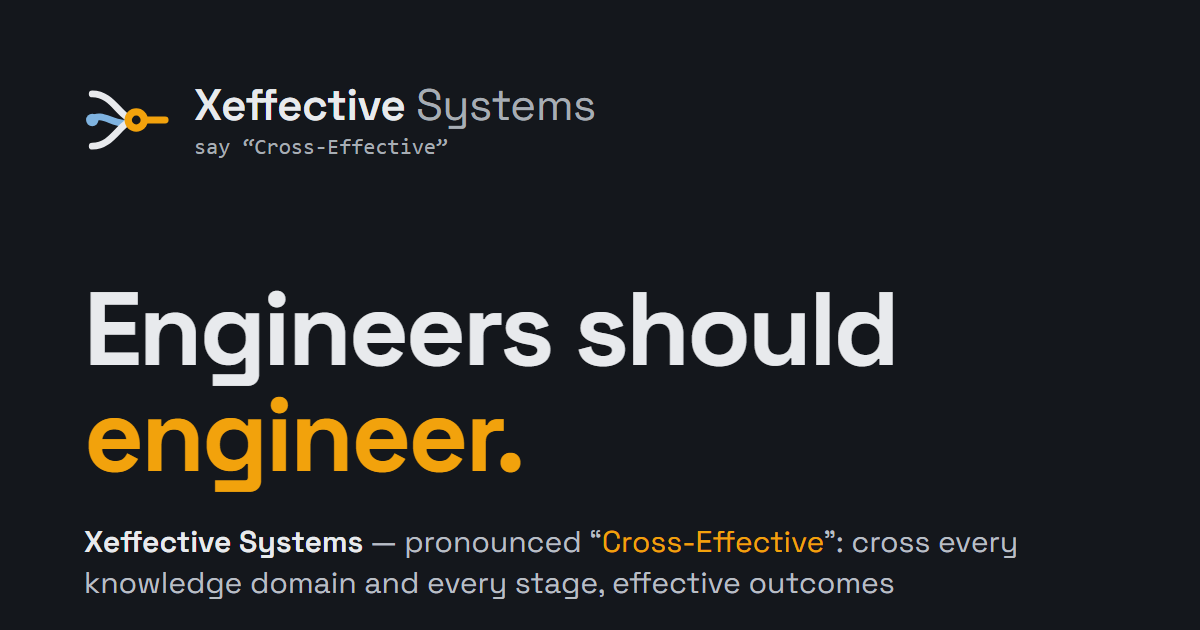
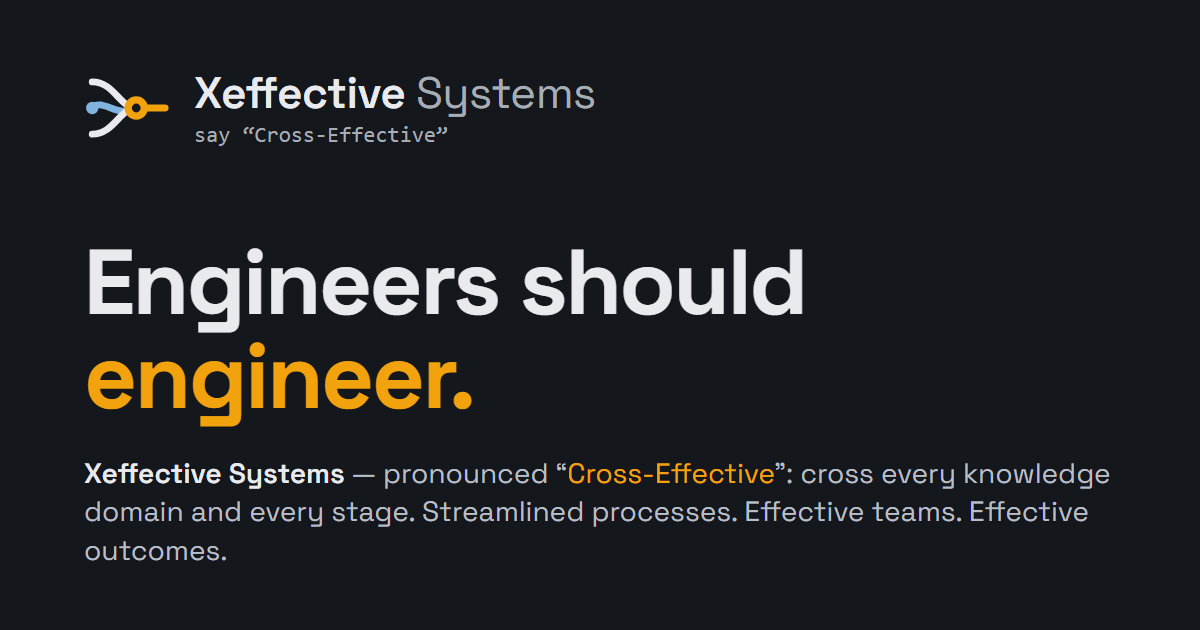
Text update: brand line, mission, founder bio, contact section; og-image

Changed region(s): [[0.0617, 0.3921, 0.925, 0.9651], [0.0617, 0.1206, 0.4933, 0.2413]]

diff --git a/index.html b/index.html
@@ -69,15 +69,15 @@
         <path class="line" d="M0 230 1200 450"/>
       </svg>
       <div class="wrap">
-        <p class="name-intro"><span class="ni-name">Xeffective Systems</span> &mdash; pronounced &ldquo;<span class="accent">Cross-Effective</span>&rdquo;: cross every knowledge domain and every stage, effective outcomes</p>
+        <p class="brand-line"><span class="brand-line-name">Xeffective Systems</span> &mdash; pronounced &ldquo;<span class="accent">Cross-Effective</span>&rdquo;: cross every knowledge domain and every stage. Streamlined processes. Effective teams. Effective outcomes.</p>
         <p class="eyebrow">Methodology for chip and SoC teams</p>
         <h1 id="hero-title">Engineers should <span class="accent">engineer.</span></h1>
         <p class="lede">Spec drift and process noise cost chip programs time, budget and re-spins. Xeffective Systems is building the methodology layer that takes process and documentation off engineers, from the first market document to delivery.</p>
         <p class="hero-actions">
-          <a class="btn btn-primary" href="#contact">Become a design partner</a>
+          <a class="btn btn-primary" href="#contact">Share your pain points</a>
           <a class="btn btn-ghost" href="#problem">The problem we solve</a>
         </p>
-        <p class="mission">Our goal: zero bug escapes to silicon caused by ambiguous specs, manual hand-offs or process gaps.</p>
+        <p class="mission">Our goal: streamline the design life cycle, from front end to back end, so engineering teams invest their brain bandwidth in the work that adds value (design, verification testbenches, test code), shortening time to market and reducing bug escapes.</p>
       </div>
     </section>
 
@@ -137,19 +137,20 @@
           <p class="role">Founder, Xeffective Systems</p>
         </div>
         <div class="bio">
-          <p>Wlamir Mello is a computer engineer and chip designer with more than 25 years across semiconductors, medical devices, industrial automation and nuclear research. Hands-on work spans high-speed analog and mixed-signal design, embedded software, FPGA prototyping and SoC verification and validation, alongside leadership roles as R&amp;D manager, engineering director and senior technical architect. The common thread is methodology: analyzing how engineering work flows, then building processes that let teams focus on engineering.</p>
+          <p>Wlamir Mello is a seasoned electronic and computer engineer with more than 25 years designing chips and systems, with hands-on and leadership experience across the full product life cycle, in semiconductors, medical devices, industrial automation and nuclear research.</p>
+          <p>His work spans the stack: high-speed analog and mixed-signal hardware, embedded and real-time software, FPGA prototyping and emulation, and ASIC/SoC verification, validation and silicon bring-up. He has led engineering as R&amp;D manager, engineering director and senior technical architect, worked directly with customers in technical account management and marketing, and taught electrical circuits, power electronics and programming.</p>
+          <p>Across every role, one pattern stood out: teams lose a large share of their time to documentation and process instead of engineering. He has spent his career analyzing how engineering work really flows and building methodologies, including concurrent engineering and Agile, that let teams focus on design. Xeffective Systems is where that experience becomes a platform.</p>
           <p><a class="link-arrow" href="https://www.linkedin.com/in/wlamirmello" rel="noopener">Wlamir Mello on LinkedIn</a></p>
         </div>
       </div>
     </section>
 
-    <!-- 6. Design partners / contact -->
+    <!-- 6. Contact -->
     <section id="contact" class="section contact" aria-labelledby="contact-title">
       <div class="wrap">
-        <p class="eyebrow">Design partners</p>
-        <h2 id="contact-title">Let's compare notes.</h2>
-        <p class="section-lede">We're talking with chip and SoC design teams about how specs flow through their projects. If that's a pain you know, let's compare notes.</p>
-        <p class="contact-hint">Tell us your role, team size and where specs hurt most.</p>
+        <p class="eyebrow">Contact</p>
+        <h2 id="contact-title">Share your pain points.</h2>
+        <p class="section-lede">We're building the platform on decades of hands-on experience across the chip life cycle. Tell us where specs and process slow your team down, and stay connected as the work progresses.</p>
         <p><a class="btn btn-primary" href="mailto:partners@xeffectivesystems.com">partners@xeffectivesystems.com</a></p>
       </div>
     </section>

diff --git a/styles.css b/styles.css
@@ -143,9 +143,9 @@ nav .nav-cta { color: var(--accent); }
 .hero-motif .line { stroke-width: 1.5px; opacity: .45; }
 .mission { margin-top: 1.75rem; font-size: .95rem; color: var(--muted); max-width: 60ch; padding-left: .9rem; border-left: 2px solid var(--accent); }
 .hero .wrap { position: relative; z-index: 1; }
-.name-intro { font-size: 1.05rem; color: var(--muted); max-width: 62ch; margin-bottom: 1.75rem; }
-.ni-name { font-family: var(--brand-font); font-weight: 600; color: var(--text); }
-.name-intro .accent { white-space: nowrap; }
+.brand-line { font-size: 1.05rem; color: var(--muted); max-width: 62ch; margin-bottom: 1.75rem; }
+.brand-line-name { font-family: var(--brand-font); font-weight: 600; color: var(--text); }
+.brand-line .accent { white-space: nowrap; }
 .accent { color: var(--accent); }
 .lede { font-size: clamp(1.15rem, 2vw, 1.35rem); color: var(--muted); max-width: 52ch; }
 .hero-actions { display: flex; flex-wrap: wrap; gap: .75rem; margin-top: 2rem; }
@@ -184,7 +184,6 @@ nav .nav-cta { color: var(--accent); }
 
 /* Contact */
 .contact .btn { margin-top: .25rem; font-size: 1.05rem; }
-.contact-hint { font-weight: 600; margin-top: 1.5rem; }
 
 
 /* Footer */
